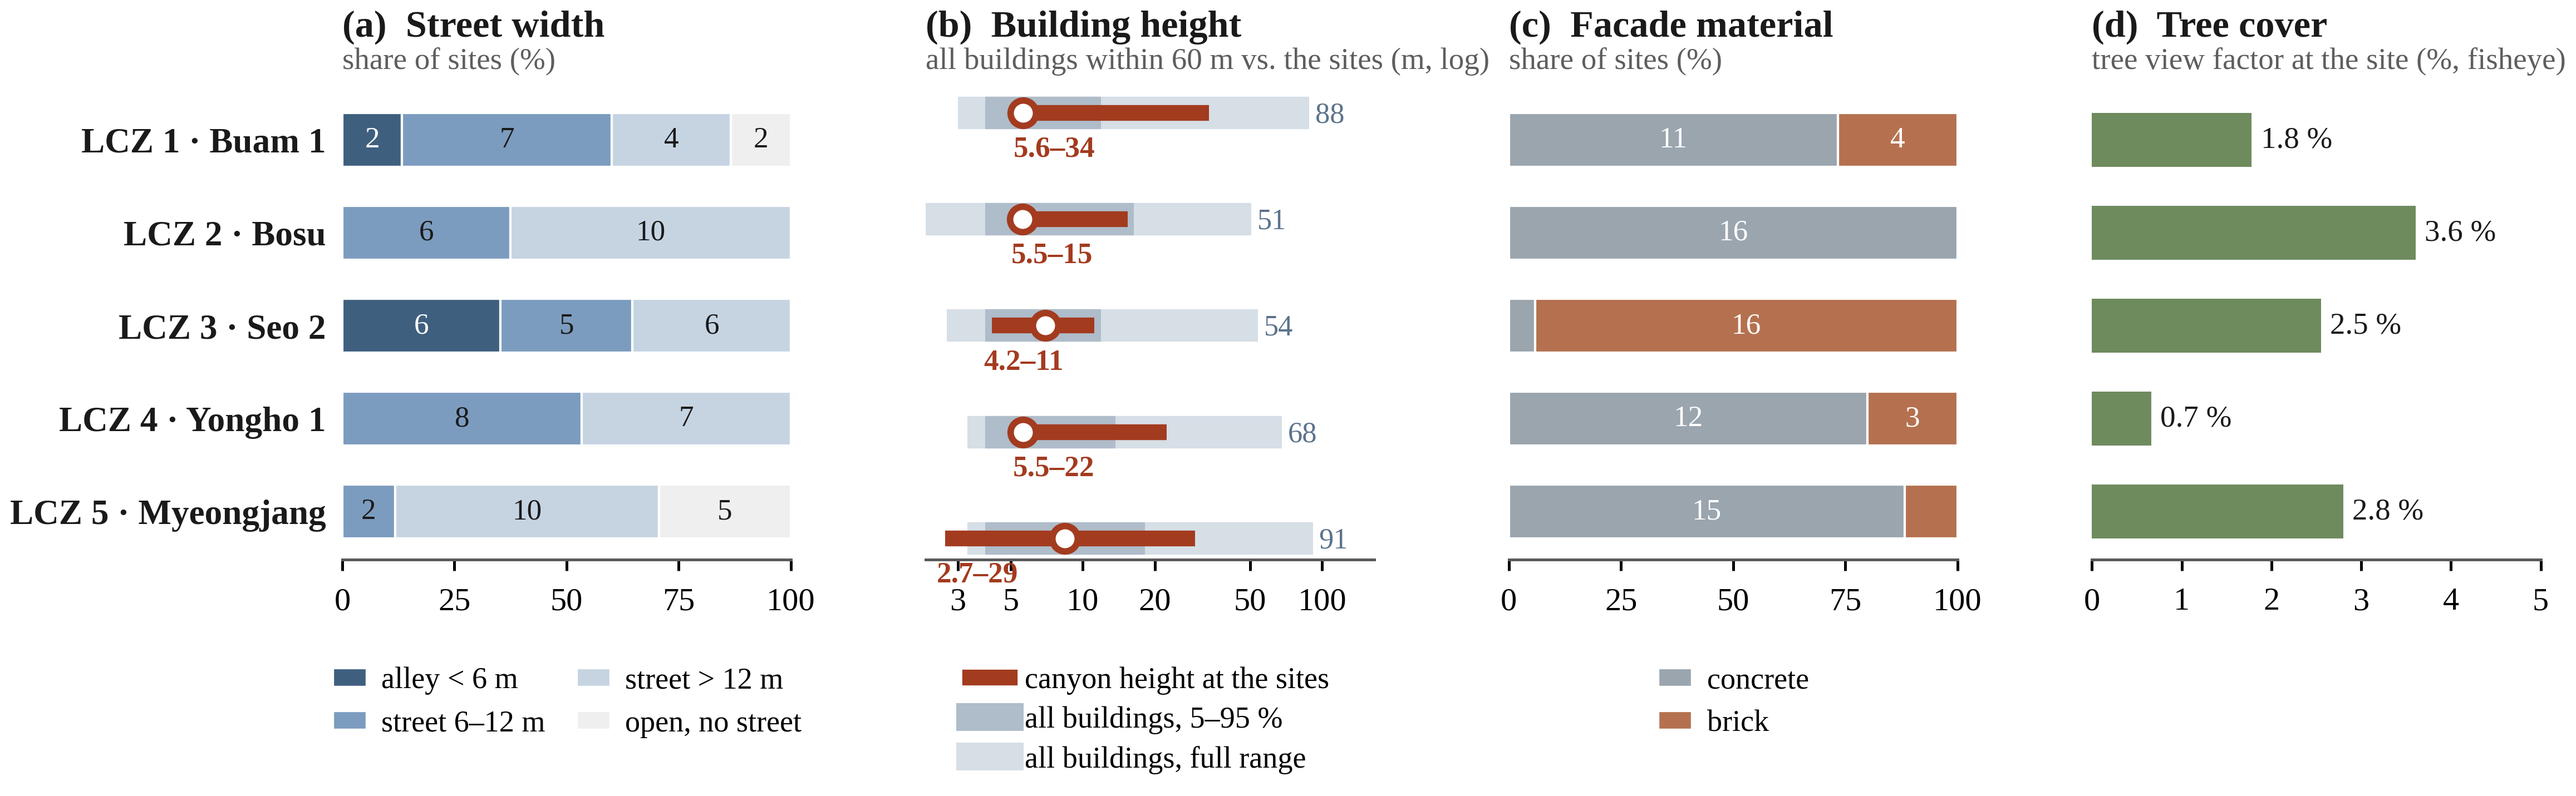
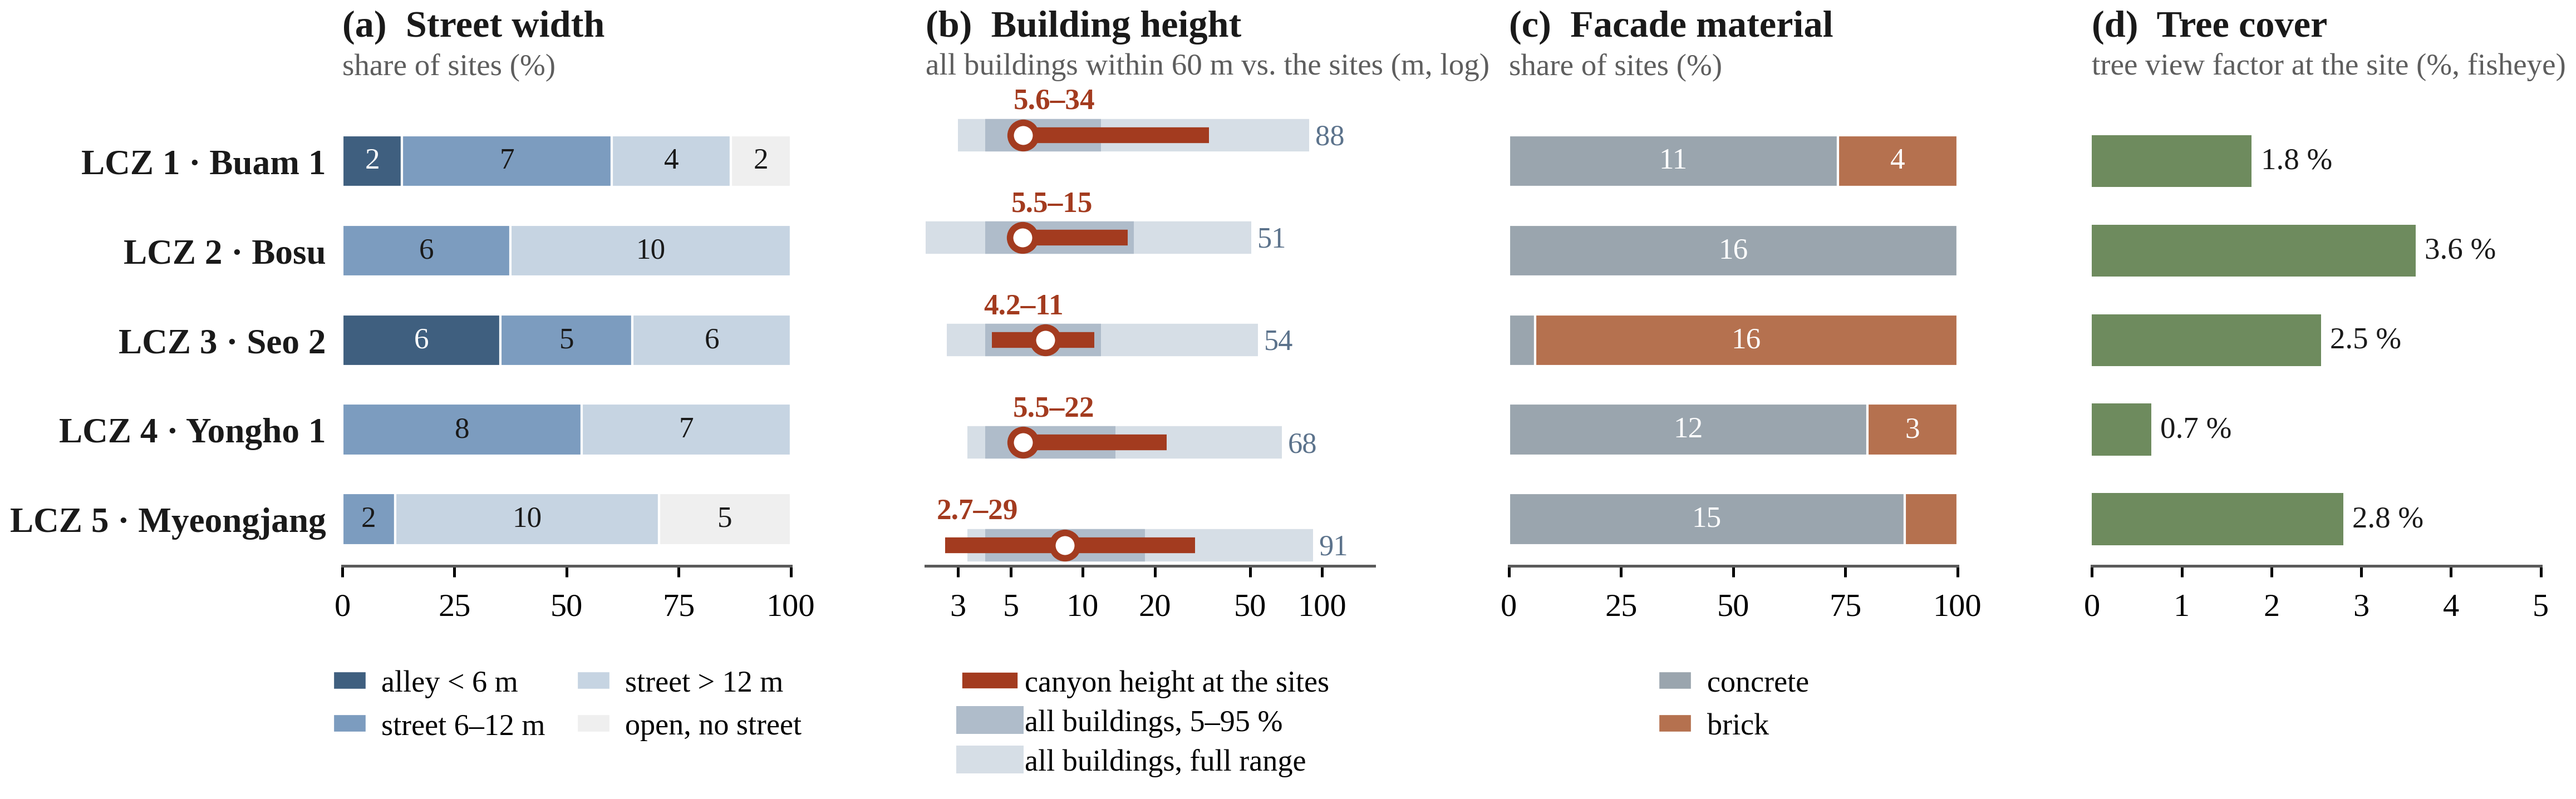
(b) 범위 라벨을 막대 위로 - 아래로 내렸더니 마지막 행이 가로축과 겹쳤다
첫 행이 부제와 닿지 않도록 제목 여백 12 -> 17, 부제 높이 1.035 -> 1.075 로 같이 키웠다.

Claude-Session: https://claude.ai/code/session_01GrP2NtWVeABT9iQDzKN66Q

diff --git a/scripts/fig_form_bars.py b/scripts/fig_form_bars.py
@@ -102,8 +102,8 @@ def style(ax, title, sub, xlabel, xmax, first):
     for s in ("top", "right", "left"):
         ax.spines[s].set_visible(False)
     ax.spines["bottom"].set_linewidth(0.6); ax.spines["bottom"].set_color(RULE)
-    ax.set_title(title, fontsize=8.2, fontweight="bold", color=INK, loc="left", pad=12.0)
-    ax.text(0.0, 1.035, sub, transform=ax.transAxes, fontsize=6.6, color=MUTED,
+    ax.set_title(title, fontsize=8.2, fontweight="bold", color=INK, loc="left", pad=17.0)
+    ax.text(0.0, 1.075, sub, transform=ax.transAxes, fontsize=6.6, color=MUTED,
             ha="left", va="bottom")
     ax.set_xlabel(xlabel, fontsize=6.8, color=MUTED, labelpad=2.0)
 
@@ -112,7 +112,7 @@ def main():
     wc, n, cmed, tmed = load_width()
     y = list(range(len(ROWS)))
     fig, axs = plt.subplots(1, 4, figsize=(190 * MM, 66 * MM))
-    fig.subplots_adjust(left=0.115, right=0.995, top=0.775, bottom=0.235, wspace=0.30)
+    fig.subplots_adjust(left=0.115, right=0.995, top=0.755, bottom=0.235, wspace=0.30)
 
     # (a) 가로폭 구성
     left = [0.0] * len(ROWS)
@@ -146,8 +146,9 @@ def main():
                     solid_capstyle="butt", zorder=4)
         axs[1].scatter([smed], [i], s=30, color="white", edgecolor=C_SITE,
                        linewidth=1.4, zorder=5)
-        # 범위 라벨을 막대 위에 두니 첫 행에서 패널 부제와 겹쳤다. 막대 아래로 내린다.
-        axs[1].text(smin * 0.92, i + 0.34, f"{smin:.1f}–{smax:.0f}", va="center",
+        # 범위 라벨은 막대 **위**. 아래로 내렸더니 마지막 행에서 가로축과 겹쳤다.
+        # 첫 행이 부제와 닿지 않도록 style() 에서 제목 여백과 부제 높이를 함께 키웠다.
+        axs[1].text(smin * 0.92, i - 0.33, f"{smin:.1f}–{smax:.0f}", va="center",
                     ha="left", fontsize=6.4, color=C_SITE, fontweight="bold")
         axs[1].text(hmax * 1.06, i + 0.02, f"{hmax:.0f}", va="center",
                     fontsize=6.3, color=C_TIP)
